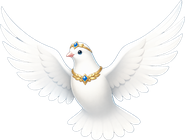
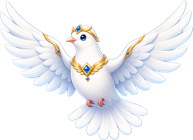
비둘기 그림 교체 (금관·보석 목걸이 버전) (v1.3.88)

diff --git a/index.html b/index.html
@@ -754,7 +754,7 @@
   const elFinal = document.getElementById("finalScore");
   const elTitle = document.getElementById("overTitle");
 
-  const GAME_VERSION = "v1.3.87";   // 코드를 고칠 때마다 뒤 두 자리를 올린다
+  const GAME_VERSION = "v1.3.88";   // 코드를 고칠 때마다 뒤 두 자리를 올린다
   document.getElementById("ver").textContent = GAME_VERSION;
 
   const LS_NAME = "epjpddongpi_name";
